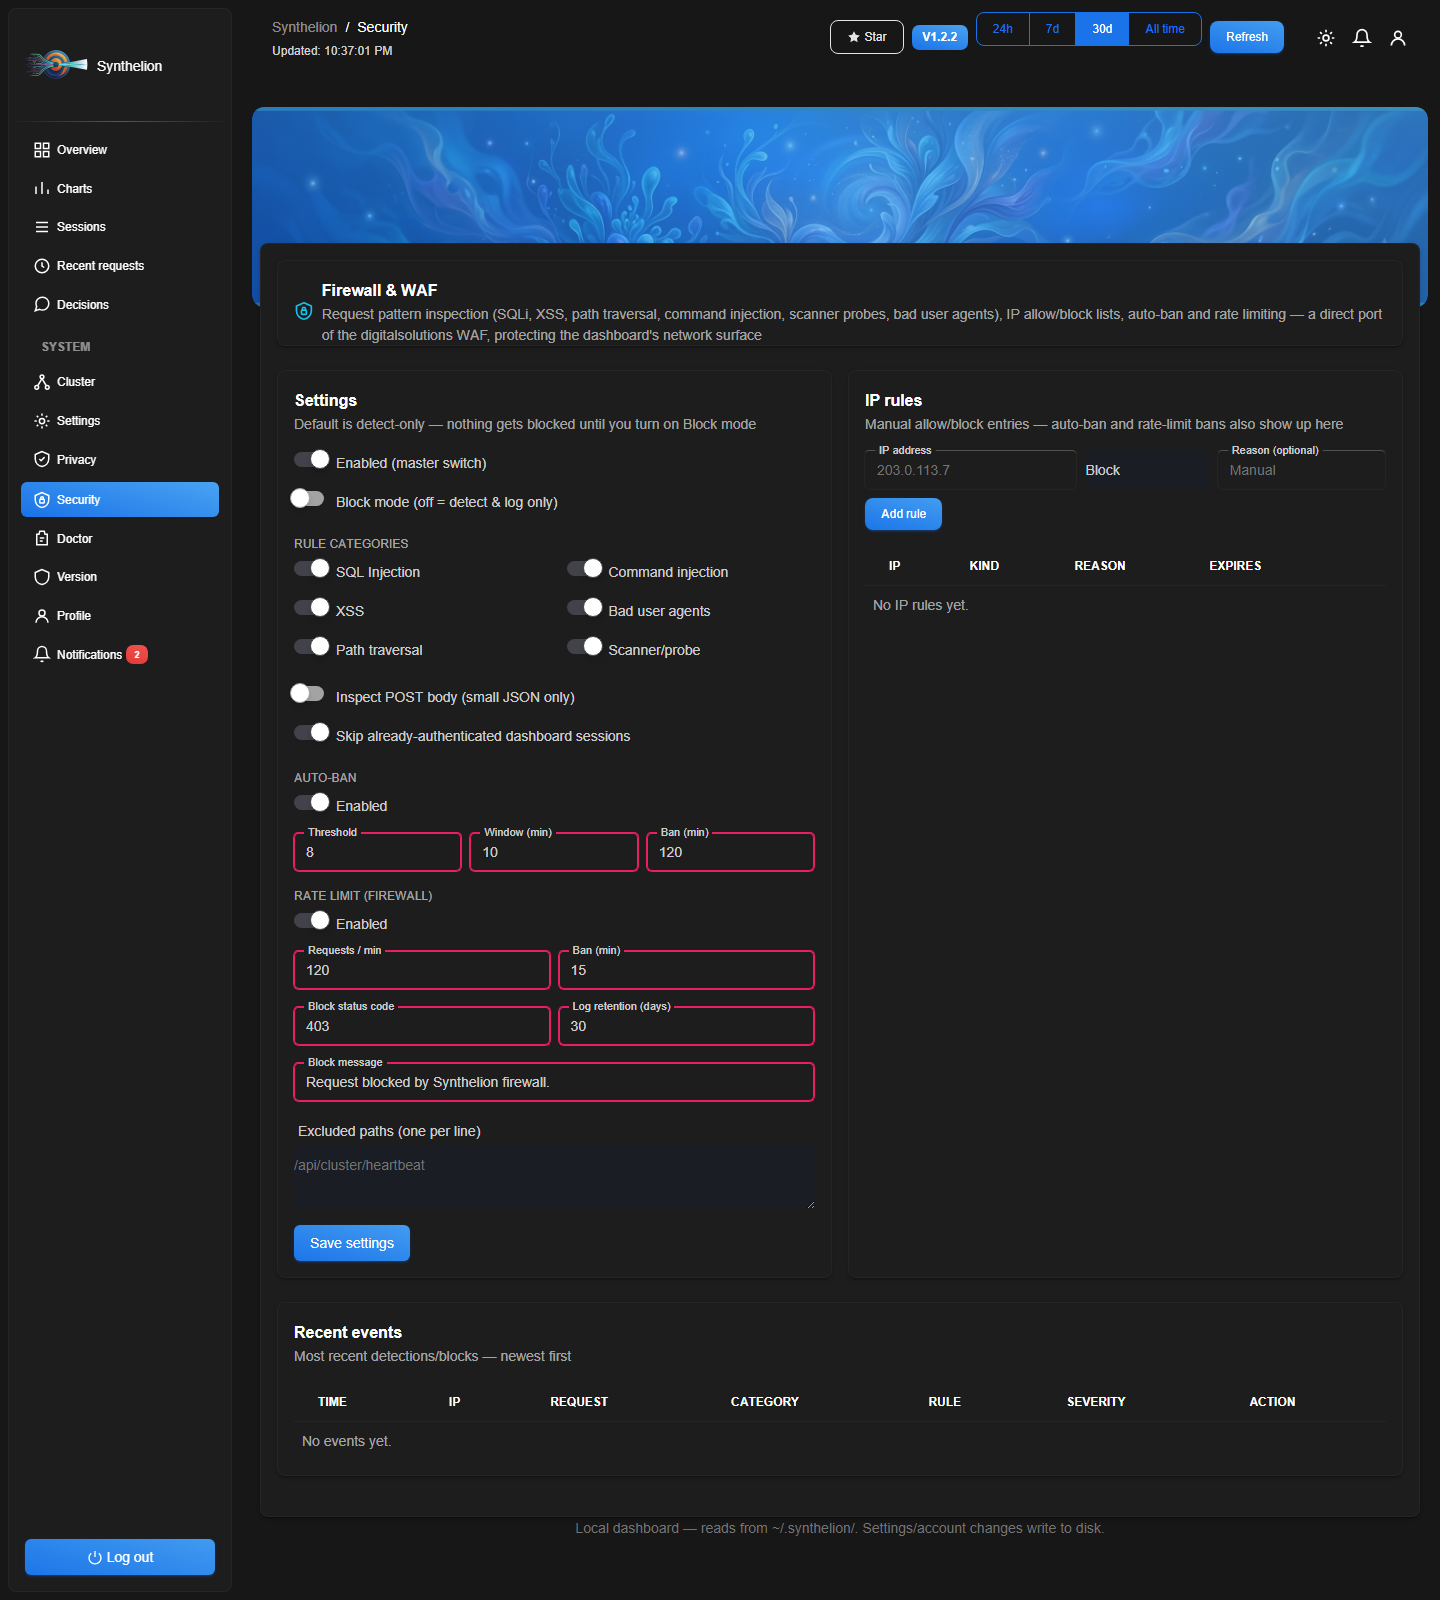
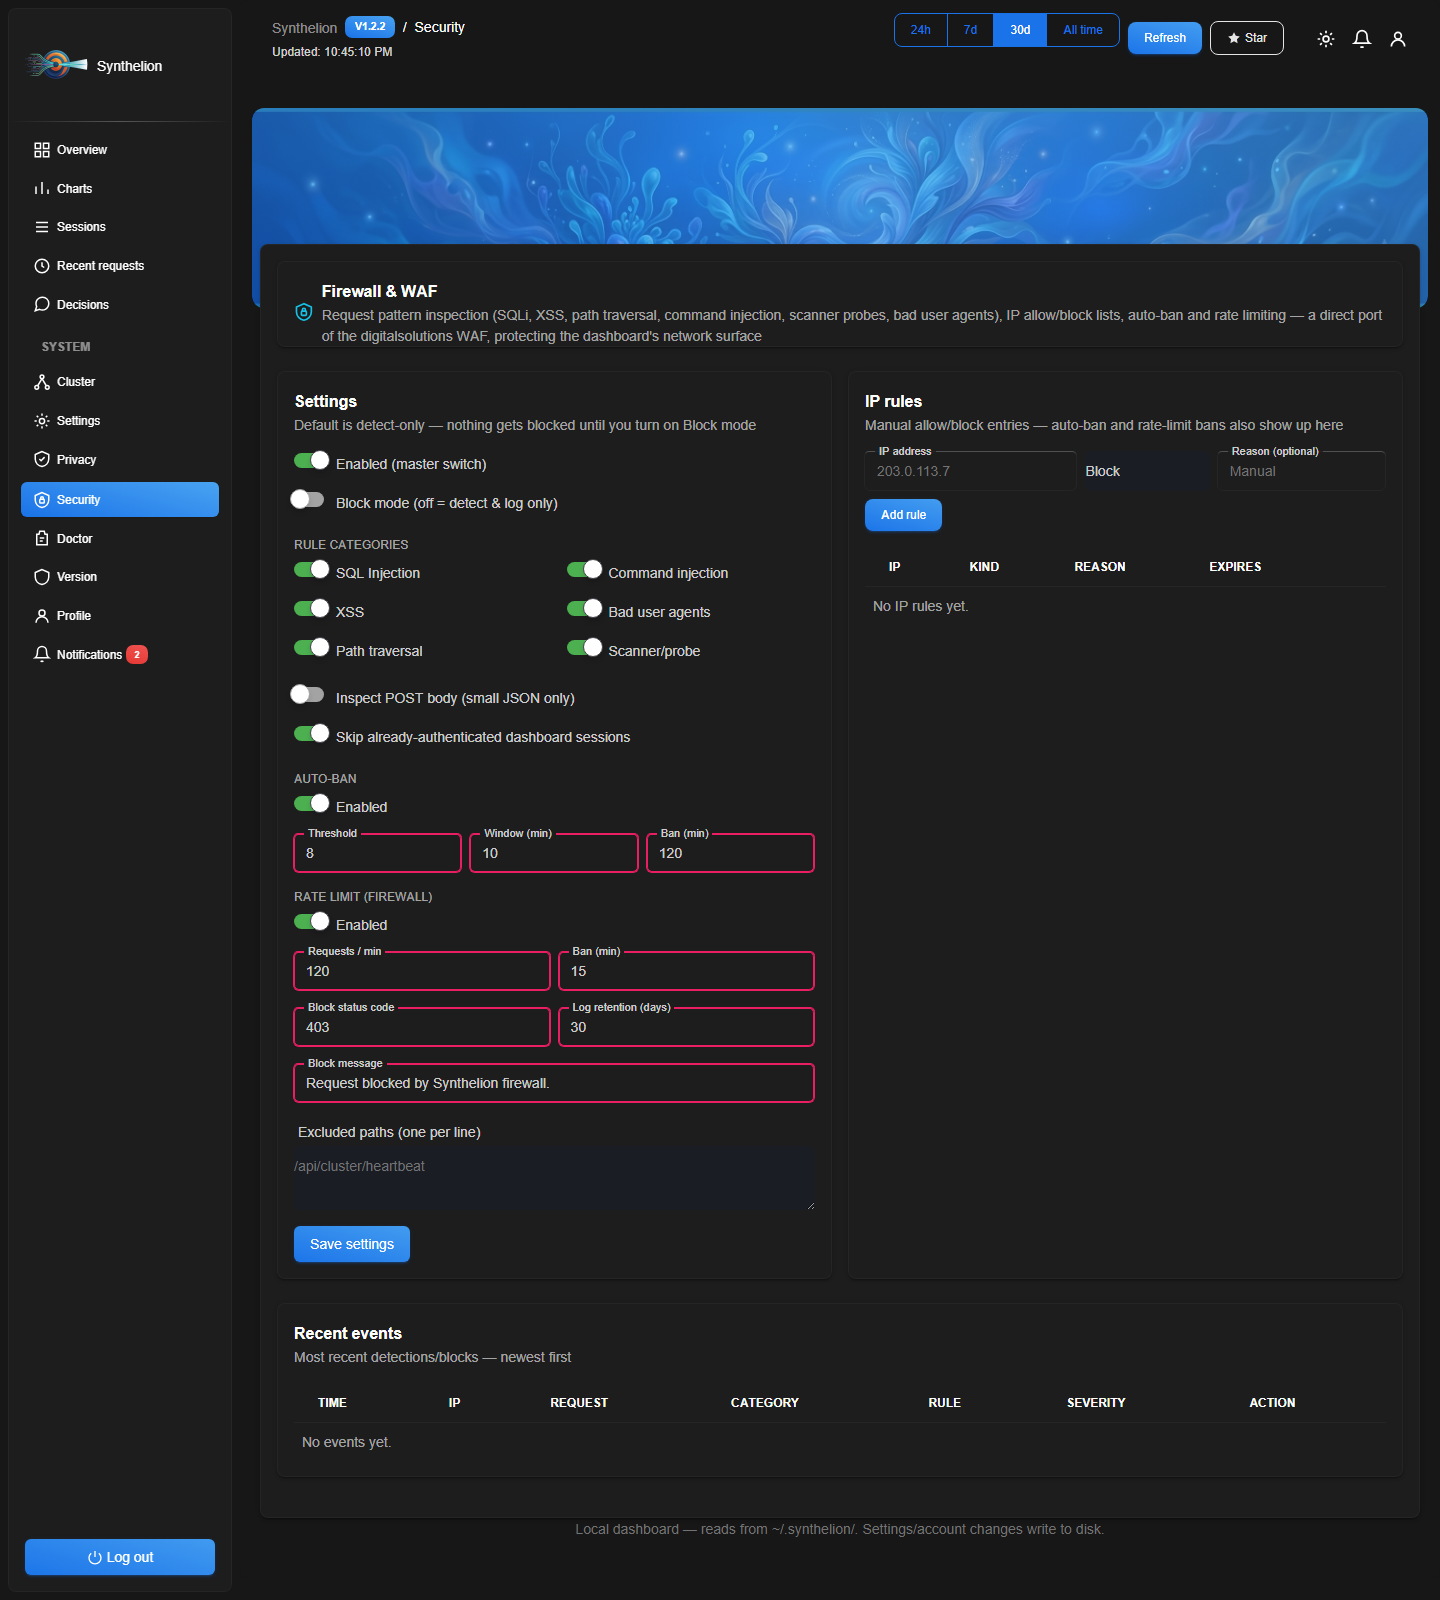
1.2.2 fix ui

diff --git a/synthelion/plugins/dashboard_assets/dashboard.css b/synthelion/plugins/dashboard_assets/dashboard.css
@@ -74,8 +74,8 @@
   border-color: rgba(255, 255, 255, 0.25);
 }
 .form-check-input:checked {
-  background-color: #4caf50;
-  border-color: #4caf50;
+  background-color: #4caf50 !important;
+  border-color: #4caf50 !important;
 }
 
 /* Material Dashboard's ".input-group-outline" only floats the <label> above